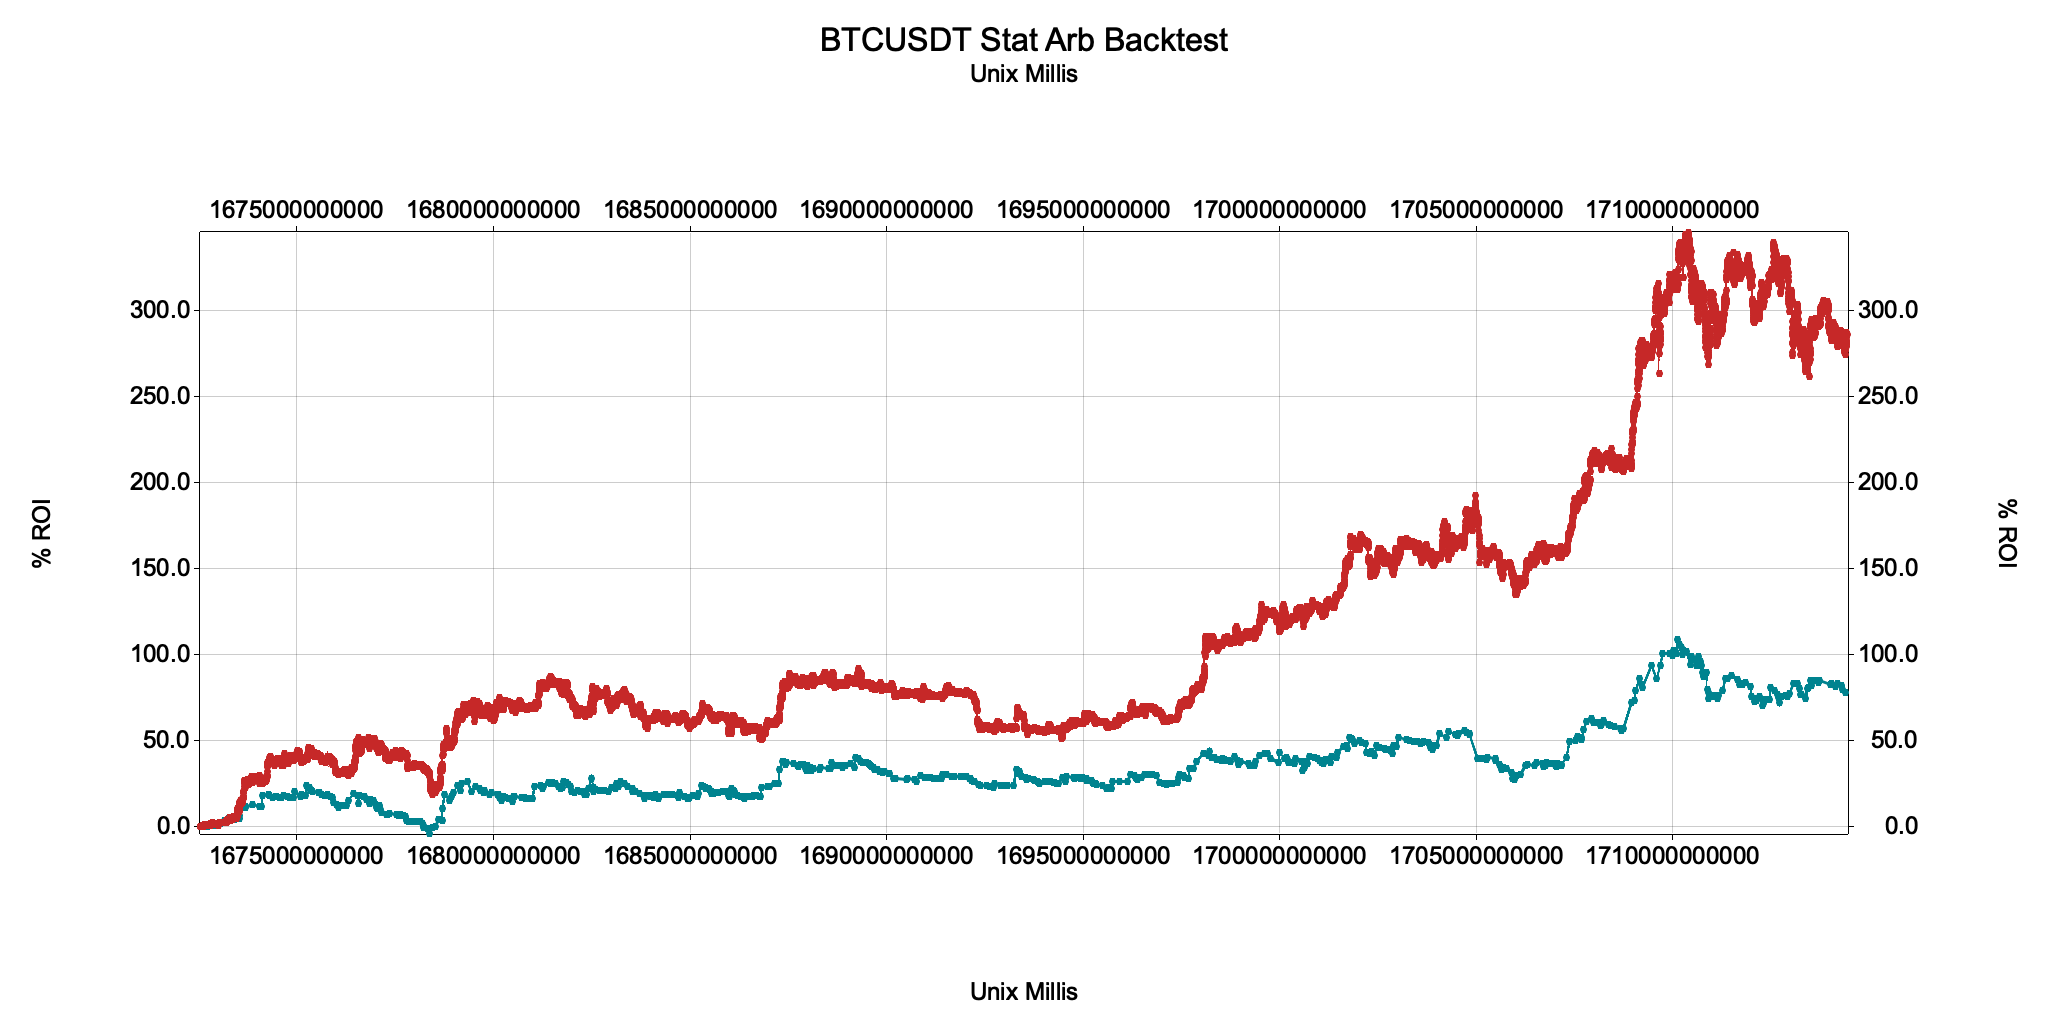
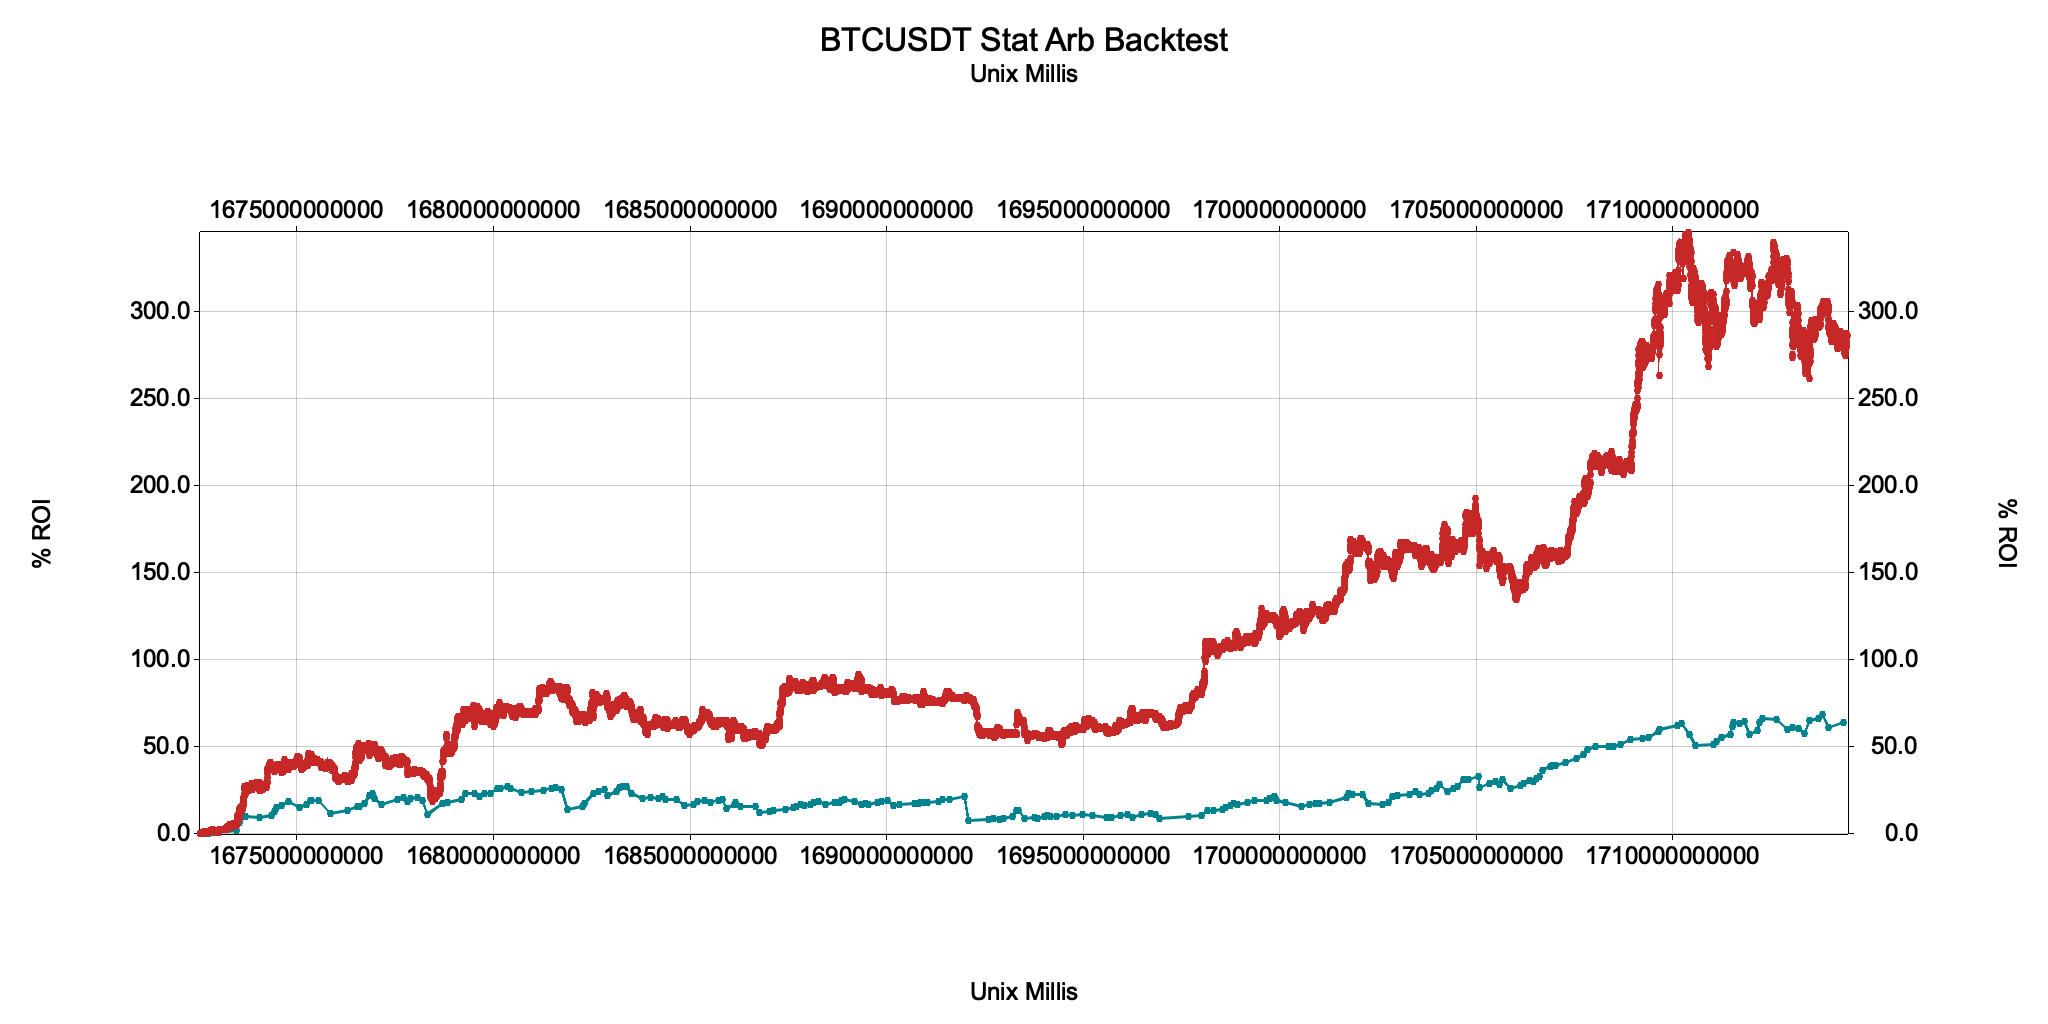
wills way

diff --git a/playbook/src/strategies/stat_arb.rs b/playbook/src/strategies/stat_arb.rs
@@ -75,14 +75,17 @@ impl StatArb {
         }
 
         // compare spread
-        let x = Dataframe::normalize_series::<Data<i64, f64>>(&self.x.vec())?;
-        let y = Dataframe::normalize_series::<Data<i64, f64>>(&self.y.vec())?;
+        // let x = Dataframe::normalize_series::<Data<i64, f64>>(&self.x.vec())?;
+        // let y = Dataframe::normalize_series::<Data<i64, f64>>(&self.y.vec())?;
+        let x = Dataset::new(self.x.vec());
+        let y = Dataset::new(self.y.vec());
 
         let spread: Vec<f64> = spread_dynamic(&x.y(), &y.y()).map_err(
           |e| anyhow::anyhow!("Error calculating spread: {}", e)
         )?;
         assert_eq!(spread.len(), y.len());
         assert_eq!(spread.len(), x.len());
+        let spread = spread[1..spread.len()].to_vec();
         let lag_spread = spread[..spread.len() - 1].to_vec();
 
         let z_0 = Data {
@@ -95,7 +98,8 @@ impl StatArb {
         };
 
         let enter_long = z_0.y() < -self.zscore_threshold;
-        let exit_long = z_0.y() > 0.0 && z_1.y() < 0.0;
+        let exit_long = z_0.y() > self.zscore_threshold;
+        // let exit_long = z_0.y() > 0.0 && z_1.y() < 0.0;
         // let enter_long = z_0.y() < -self.zscore_threshold;
         // let exit_long = z_0.y() > self.zscore_threshold;
 
@@ -196,15 +200,15 @@ async fn btc_eth_30m_stat_arb() -> anyhow::Result<()> {
 
   let start_time = Time::new(2023, &Month::from_num(1), &Day::from_num(1), None, None, None);
   let end_time = Time::new(2024, &Month::from_num(4), &Day::from_num(30), None, None, None);
-
-  let window = 10;
-  let capacity = window + 6;
+ 
+  let window = 20;
+  let capacity = window + 2;
   let threshold = 2.0;
   let stop_loss = None; // Some(10.0);
   let fee = 0.02;
   let bet = Bet::Percent(100.0);
   let leverage = 1;
-  let short_selling = true;
+  let short_selling = false;
 
   let x_ticker = "BTCUSDT".to_string();
   let y_ticker = "ETHUSDT".to_string();
@@ -250,14 +254,6 @@ async fn btc_eth_30m_stat_arb() -> anyhow::Result<()> {
         "% ROI",
         "Unix Millis"
       )?;
-
-      // Plot::plot(
-      //   vec![summary.pct_per_trade(&x_ticker)?.data().clone()],
-      //   "stat_arb_btc_30m_trades.png",
-      //   &format!("{} Stat Arb Trades", x_ticker),
-      //   "% ROI",
-      //   "Unix Millis"
-      // )?;
     }
   }
   if let Some(trades) = backtest.trades.get(&y_ticker) {
@@ -274,16 +270,144 @@ async fn btc_eth_30m_stat_arb() -> anyhow::Result<()> {
         "% ROI",
         "Unix Millis"
       )?;
-
-      // Plot::plot(
-      //   vec![summary.pct_per_trade(&y_ticker)?.data().clone()],
-      //   "stat_arb_eth_30m_trades.png",
-      //   &format!("{} Stat Arb Trades", y_ticker),
-      //   "% ROI",
-      //   "Unix Millis"
-      // )?;
     }
   }
+
+  Ok(())
+}
+
+#[tokio::test]
+async fn btc_eth_30m_spread_attributes() -> anyhow::Result<()> {
+  use super::*;
+  dotenv::dotenv().ok();
+
+  let start_time = Time::new(2024, &Month::from_num(4), &Day::from_num(29), None, None, None);
+  let end_time = Time::new(2024, &Month::from_num(4), &Day::from_num(30), None, None, None);
+  
+  let x_ticker = "BTCUSDT".to_string();
+  let y_ticker = "ETHUSDT".to_string();
+  
+  let btc_csv = PathBuf::from("btcusdt_30m.csv");
+  let mut x_candles = Dataframe::csv_series(&btc_csv, Some(start_time), Some(end_time), x_ticker.clone())?.candles;
+  let eth_csv = PathBuf::from("ethusdt_30m.csv");
+  let mut y_candles = Dataframe::csv_series(&eth_csv, Some(start_time), Some(end_time), y_ticker.clone())?.candles;
+
+  Dataframe::align_pair_series(&mut x_candles, &mut y_candles)?;
+
+  // normalize data using percent change from first price in time series
+  let x = Dataframe::normalize_series::<Candle>(x_candles.as_slice())?;
+  let y = Dataframe::normalize_series::<Candle>(y_candles.as_slice())?;
+  assert_eq!(x.len(), y.len());
+
+  // discover spread attribution (how much x and/or y contributed to the change in spread)
+  let hedge_ratio: Vec<f64> = dynamic_hedge_kalman_filter(&x.y(), &y.y()).unwrap();
+  println!("hedge ratio len: {}", hedge_ratio.len());
+  assert_eq!(hedge_ratio.len(), x.len());
+  assert_eq!(hedge_ratio.len(), y.len());
+  assert_eq!(x.len(), y.len());
+
+  let hedge_ratio = Dataset::new(hedge_ratio.iter().enumerate().map(|(i, y)| {
+    Data { x: x.x()[i], y: *y }
+  }).collect());
+
+  let mut y_pos_attr = vec![];
+  let mut y_neg_attr = vec![];
+  let mut y_signed_attr = vec![];
+  let mut hx_pos_attr = vec![];
+  let mut hx_neg_attr = vec![];
+  let mut hx_signed_attr = vec![];
+  let mut y_diffs = vec![];
+  let mut hx_diffs = vec![];
+  let mut s_diffs = vec![];
+
+  for ((x_window, y_window), hr_window)
+  in x.data().clone().windows(2)
+      .zip(y.data().clone().windows(2))
+      .zip(hedge_ratio.data().clone().windows(2)) {
+
+    let x1 = x_window[0].clone();
+    let x = x_window[1].clone();
+    let y1 = y_window[0].clone();
+    let y = y_window[1].clone();
+    let hr1 = hr_window[0].clone();
+    let hr = hr_window[1].clone();
+    let date = x.x(); // equal to y.date and hr.date
+
+    // hx is -hedge_ratio * x
+    let hx1 = -hr1.y() * x1.y();
+    let hx = -hr.y() * x.y();
+    // spread = y - hedge_ratio * x
+    let s1 = y1.y() - hx1;
+    let s = y.y() - hx;
+    let ds = s - s1;
+    // change due to "x" is really -hedge_ratio * x
+    let dhx = hx - hx1;
+    let dy = y.y() - y1.y();
+    
+    let sign = if ds > 0.0 {1.0} else {-1.0};
+    
+    // determine change in spread due to change in x and y as percentage
+    let cumd = dy.abs() + dhx.abs();
+    let y_pct = dy.abs() / cumd * 100.0;
+    let hx_pct = dhx.abs() / cumd * 100.0;
+
+    y_signed_attr.push(Data { x: date, y: y_pct * sign });
+    if sign == 1.0 {
+      y_pos_attr.push(Data { x: date, y: y_pct });
+    } else {
+      y_neg_attr.push(Data { x: date, y: y_pct });
+    }
+    hx_signed_attr.push(Data { x: date, y: hx_pct * sign });
+    if sign == 1.0 {
+      hx_pos_attr.push(Data { x: date, y: hx_pct });
+    } else {
+      hx_neg_attr.push(Data { x: date, y: hx_pct });
+    }
+    y_diffs.push(Data { x: date, y: dy });
+    hx_diffs.push(Data { x: date, y: dhx });
+    s_diffs.push(Data { x: date, y: ds });
+  }
+
+  // blue is y_attr, red is hx_attr
+  Plot::plot(
+    vec![y_signed_attr, hx_signed_attr],
+    "btc_eth_signed_attributes.png",
+    "BTC & ETH Spread Attribution",
+    "% Attribution",
+    "Unix Millis"
+  )?;
+  Plot::plot(
+    vec![y_pos_attr, hx_pos_attr],
+    "btc_eth_pos_attributes.png",
+    "BTC & ETH Spread Attribution",
+    "% Attribution",
+    "Unix Millis"
+  )?;
+  Plot::plot(
+    vec![y_neg_attr, hx_neg_attr],
+    "btc_eth_neg_attributes.png",
+    "BTC & ETH Spread Attribution",
+    "% Attribution",
+    "Unix Millis"
+  )?;
+  // blue is y_diffs, red is hx_diffs, green is s_diffs
+  Plot::plot(
+    vec![y_diffs, hx_diffs, s_diffs],
+    "btc_eth_diffs.png",
+    "BTC & ETH Spread Diffs",
+    "Change",
+    "Unix Millis"
+  )?;
+
+  // blue is ETH, red is BTC
+  Plot::plot(
+    vec![y.data().clone(), x.data().clone()],
+    "btc_eth_normalized.png",
+    "BTC & ETH Normalized Prices",
+    "% Change from Origin",
+    "Unix Millis"
+  )?;
+
 
   Ok(())
 }
@@ -308,8 +432,8 @@ async fn btc_eth_30m_spread() -> anyhow::Result<()> {
 
   Dataframe::align_pair_series(&mut x_candles, &mut y_candles)?;
   // Append to backtest data
-  backtest.candles.insert(x_ticker.clone(), x_candles);
-  backtest.candles.insert(y_ticker.clone(), y_candles);
+  backtest.candles.insert(x_ticker.clone(), x_candles.clone());
+  backtest.candles.insert(y_ticker.clone(), y_candles.clone());
 
   println!("Backtest BTC candles: {}", backtest.candles.get(&x_ticker).unwrap().len());
   println!("Backtest ETH candles: {}", backtest.candles.get(&y_ticker).unwrap().len());
@@ -326,7 +450,7 @@ async fn btc_eth_30m_spread() -> anyhow::Result<()> {
     "Percent from Origin",
     "Unix Millis"
   )?;
-
+  
   let correlation = rolling_correlation(&x.y(), &y.y(), window).map_err(
     |e| anyhow::anyhow!("Error calculating rolling correlation: {}", e)
   )?;
@@ -340,7 +464,7 @@ async fn btc_eth_30m_spread() -> anyhow::Result<()> {
     "Correlation",
     "Time"
   )?;
-
+  
   let spread: Vec<f64> = spread_dynamic(&x.y(), &y.y()).map_err(
     |e| anyhow::anyhow!("Error calculating spread: {}", e)
   )?;
@@ -355,7 +479,7 @@ async fn btc_eth_30m_spread() -> anyhow::Result<()> {
     "Spread",
     "Unix Millis"
   )?;
-
+  
   assert_eq!(spread.len(), y.len());
   assert_eq!(spread.len(), x.len());
   let zscore: Vec<f64> = rolling_zscore(&spread, window).unwrap();
@@ -369,45 +493,10 @@ async fn btc_eth_30m_spread() -> anyhow::Result<()> {
     "Z Score",
     "Time"
   )?;
-
+  
   let half_life: f64 = half_life(&spread).unwrap();
   let half_life = half_life.abs().round() as usize;
   println!("Spread half life: {} bars", half_life);
-
-  // compare lagged spread
-  let x_lag_spread = Dataframe::lagged_spread_series::<Candle>(
-    backtest.candles.get(&x_ticker).unwrap()
-  )?;
-  let y_lag_spread = Dataframe::lagged_spread_series::<Candle>(
-    backtest.candles.get(&y_ticker).unwrap()
-  )?;
-  // take the ratio of each index in the spread series
-  let lag_spread_ratio: Dataset<i64, f64> = Dataset::new(x_lag_spread.data().iter().zip(y_lag_spread.data().iter()).flat_map(|(x, y)| {
-    if y.y() == 0.0 {
-      None
-    } else {
-      Some(Data {
-        x: x.x(),
-        y: x.y() / y.y()
-      })
-    }
-  }).collect());
-  let zscore: Dataset<i64, f64> = Dataset::new(rolling_zscore(&lag_spread_ratio.y(), 100).unwrap().into_iter().enumerate().map(|(i, z)| {
-    Data {
-      x: lag_spread_ratio.x()[i],
-      y: z
-    }
-  }).collect());
-
-  Plot::plot(
-    // vec![x_lag_spread.data().clone(), y_lag_spread.data().clone()],
-    // vec![lag_spread_ratio],
-    vec![zscore.data().clone()],
-    "btc_eth_30m_lag_spread.png",
-    "BTC & ETH Lagged Spread",
-    "% Spread",
-    "Unix Millis"
-  )?;
 
   Ok(())
 }

diff --git a/time_series/src/dataframe.rs b/time_series/src/dataframe.rs
@@ -97,7 +97,7 @@ impl Dataframe {
     }).collect());
     Ok(x)
   }
-  
+
   pub fn lagged_spread_series<T: X + Y>(series: &[T]) -> anyhow::Result<Dataset<i64, f64>> {
     let mut series = series.to_vec();
     series.sort_by_key(|c| c.x());
